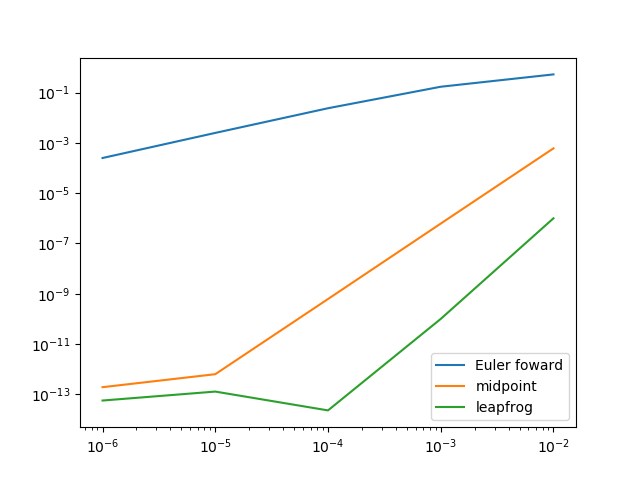
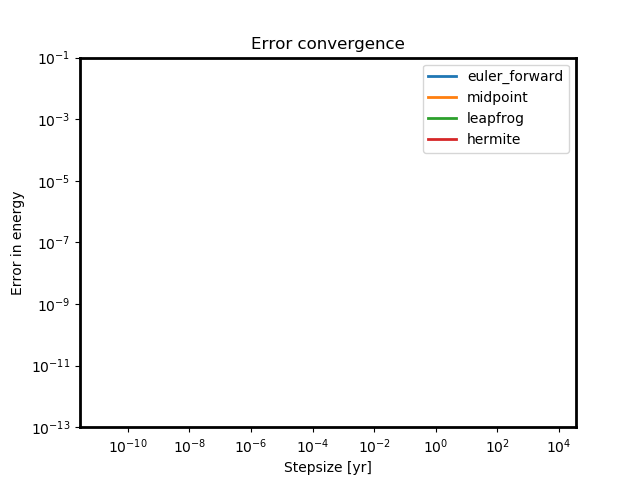
half a ghost

diff --git a/2body_matrix_form.py b/2body_matrix_form.py
@@ -103,6 +103,7 @@ def hermite(dt, tfinal):
 	etot0 = fn.e_tot(particles, marr)
 	time = 0
 	iterations = 2
+	x_and_v =[]
 	ecc = []
 	a_list = []
 
@@ -167,9 +168,9 @@ def plot_error(timestep, error1, error2, error3, error4):
 	plt.plot(timestep, np.abs(error3), label = 'leapfrog')
 	plt.plot(timestep, np.abs(error4), label = 'hermite')
 
-	plt.title('timestep = ' + str(timestep))
+	plt.title('Error convergence')
 	plt.legend()
-	plt.xlabel("stepsize [yr]")
+	plt.xlabel("Stepsize [yr]")
 	plt.ylabel("Error in energy")
 	plt.yscale("log")
 	plt.xscale("log")
@@ -193,30 +194,31 @@ def vr_file(dt, tfinal, tau, save=True):
 
 def main():
 	dt     = 0.001
-	tfinal = 13
+	tfinal = 100
 
 	calc_step = 10
 	omega_k = (2*np.pi)
 
 	# tau_vals= [5e1]
-	tau_vals = np.geomspace(1, 1e1, num=2)
+	tau_vals = np.geomspace(5, 5e2, num=10)
 
 	for tau in tau_vals:
 		print 'calculating', tau
-		pos_leapfrog, _, _,_, v_kep, time = leapfrog(dt, tfinal, tau, drag=True)
-
-		saved_time, v_ratio = vr_file(dt, tfinal, tau, save=False)
-		# plt.plot(saved_time, v_ratio, label='{:0.2e}'.format(tau))
-
+		# pos_leapfrog, _, _,_, v_kep, time = leapfrog(dt, tfinal, tau, drag=True)
+		#
+		# saved_time, v_ratio = vr_file(dt, tfinal, tau, save=False)
 		# v_ratio = np.load("trail2_vratio_dt=" + str(dt)+"_tfinal=" + str(tfinal) + "_tau=" + str(tau)+".npy")
+
+		# plt.plot(v_ratio[0], v_ratio[1], label='{:0.2e}'.format(tau))
 
 		# plot_pos(pos_leapfrog)
 		# plt.show()
 		# plt.plot(time, a_leapfrog, label='{:0.2e}'.format(tau
 
-
-		# plt.scatter(tau,v_ratio[6000], c='b')
-		'''gemiddelde waarden voor tau= 3e2, 5e2'''
+		#
+		# if :
+		# plt.scatter(tau,v_ratio[1][90000], c='b')
+		# '''gemiddelde waarden voor tau= 3e2, 5e2'''
 		# else:
 		# 	plt.scatter(tau,v_ratio[1][90000], c='r')
 		# 	plt.scatter(3.00e2, 2.66549e-5, c='g')
@@ -226,7 +228,7 @@ def main():
 		# plt.xscale("Log")
         # plt.yscale("Log")
 
-	# plt.xlim(0,1e4)
+	# plt.xlim(1e-5,1e-2)
 	# plt.ylim(1e-5,1e-2)
 	plt.legend()
 	plt.show()
